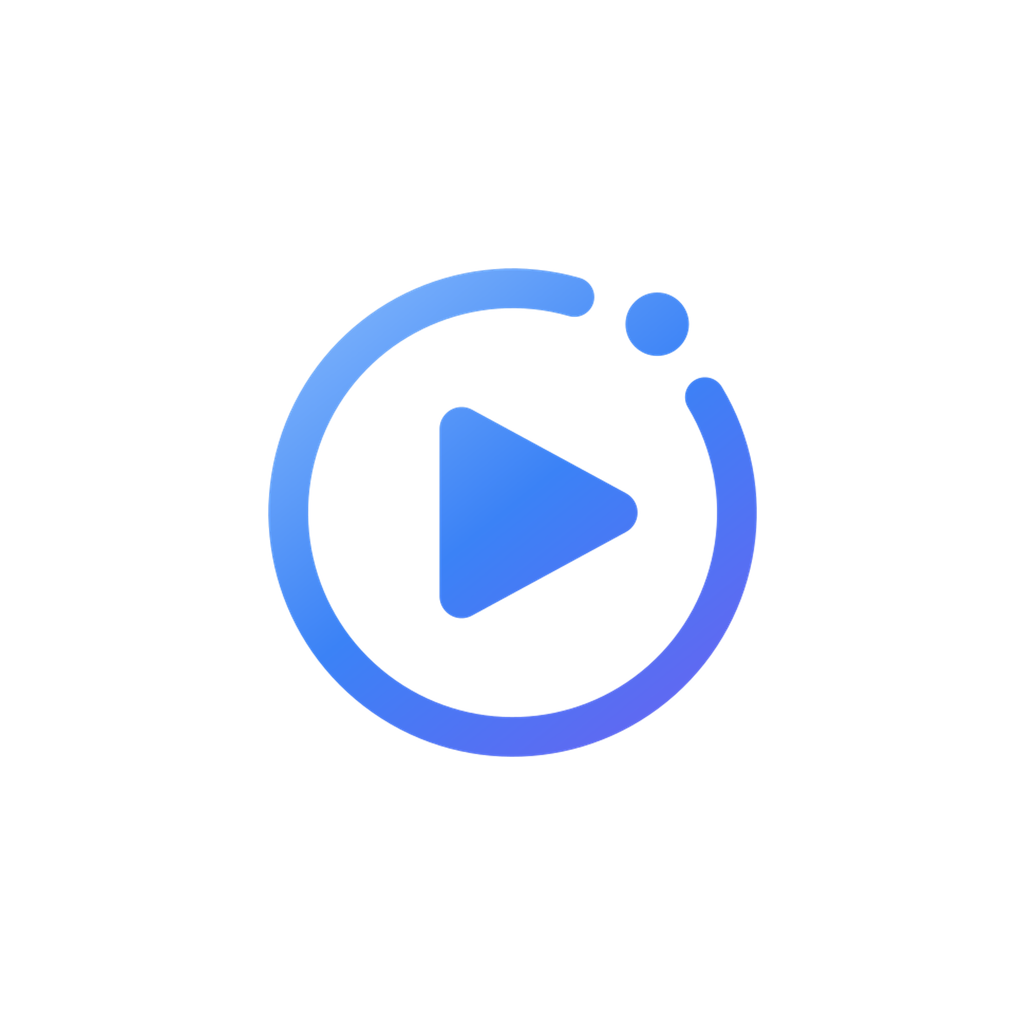
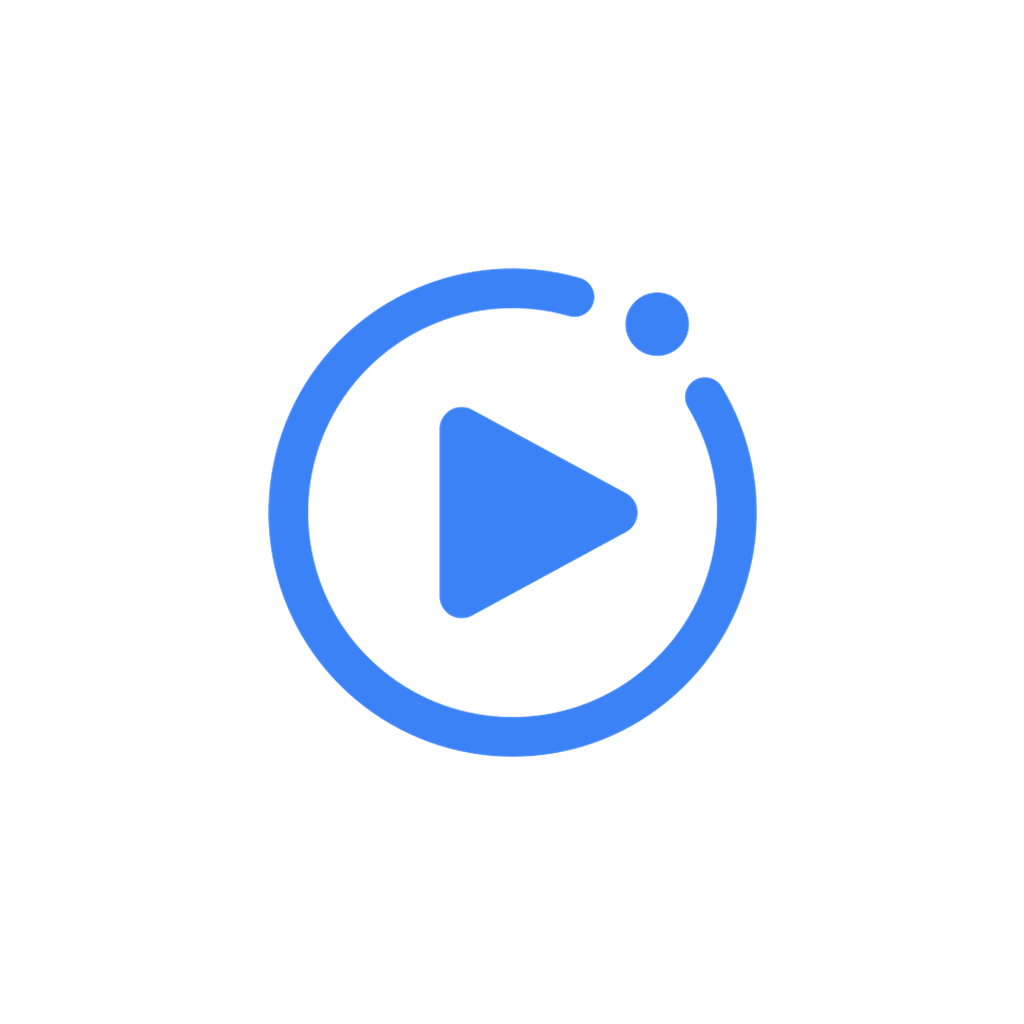
refactor(brand): drop the gradient for a flat #3B82F6
The gradient was decoration rather than structure - the mark is three
shapes, and at 32px the colour ramp read as noise on the ring stroke
rather than as depth. One flat #3B82F6 (the --primary token verbatim)
holds up better at every size and drops the <defs> block entirely.

Regenerated the PNGs; geometry and optical sizes are unchanged.

The iOS icon keeps Apple's automatic-gradient background fill, since
that is applied by the icon composer rather than by our asset - the mark
layered on top is flat white.

Claude-Session: https://claude.ai/code/session_017ifX4DFh8WeJ4HRjnaNyGt

Changed region(s): [[0.25, 0.25, 0.5938, 0.5625], [0.4688, 0.5312, 0.75, 0.75]]

diff --git a/assets/brand/README.md b/assets/brand/README.md
@@ -25,6 +25,5 @@ gradient fill itself.
 
 ## Palette
 
-The gradient runs `#7DB3FB` -> `#3B82F6` -> `#6366F1`. `#3B82F6` is the
-`--primary` token from `src/theme/colors.ts`; the backdrop everywhere is
-`#09090B` (`--background`).
+One flat colour, no gradients: `#3B82F6` - the `--primary` token from
+`src/theme/colors.ts`. The backdrop everywhere is `#09090B` (`--background`).
